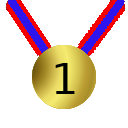
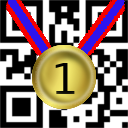
Improve on small screens. Adapting QR-Code-Size. Medal is not a Layer anymore, now a standard Image

diff --git a/src/App.js b/src/App.js
@@ -49,16 +49,18 @@ function subTopic() {
         }
     });
 
-    //check if Team is best Team
-    var medalPic = document.getElementById("MedalPic");
-    if (medalPic != null) {
+    //check if Team is best Team and give Medal to QRCode
+    if (document.getElementById("QR2") != null) {
         if (THECOMPONENT.state.InputFieldvalue === THECOMPONENT.state.bestTeam) {
             console.log('Logged in Team is best');
-            medalPic.style.display = "flex";
+            document.getElementById("QR2").style.display = "none";
+            document.getElementById("Medal").style.display = "flex"
         } else {
-            medalPic.style.display = "none";
+            document.getElementById("QR2").style.display = "flex";
+            document.getElementById("Medal").style.display = "none";
         }
     }
+
 
 
     new Promise(function () {
@@ -67,6 +69,12 @@ function subTopic() {
 
 
 }
+
+//Resize QRCodes when Window ist resized
+window.onresize = function(event) {
+    THECOMPONENT.state.sizeQR1=Math.max(document.documentElement.clientHeight, window.innerHeight || 0)*0.3;
+    THECOMPONENT.state.sizeQR2=Math.max(document.documentElement.clientHeight, window.innerHeight || 0)*0.14;
+};
 
 
 class App extends Component {
@@ -82,7 +90,9 @@ class App extends Component {
             speed: 0,
             bestcode: '',
             bestTeam: '',
-            bestSpeed: 0
+            bestSpeed: 0,
+            sizeQR1: Math.max(document.documentElement.clientHeight, window.innerHeight || 0)*0.3,
+            sizeQR2: Math.max(document.documentElement.clientHeight, window.innerHeight || 0)*0.14,
         };
         subTopic();
 
@@ -123,7 +133,7 @@ class App extends Component {
                     <div className="flip-container">
                         <div className="flipper">
                             <div className="front">
-                                <QRCode value={this.state.value} size={1.5 * 256}/>
+                                <QRCode value={this.state.value} size={parseInt(this.state.sizeQR1,10)} />
                             </div>
                             <div className="back">
                                 <p>Im QR-Code enthaltene Nachricht:</p>
@@ -135,10 +145,13 @@ class App extends Component {
 
                     <p>Aktuell bester empfangener QRCode kommt von Team:&nbsp;<b> {this.state.bestTeam} </b> mit der
                         Geschwindigkeit von: {this.state.bestSpeed * 100}%</p>
-                    <div className="App-flex itemQR" title="QR-Code des Highscores, erziele eine höhere Geschwindigkeit und verdiene eine Medaille!">
-                        <QRCode value={this.state.bestcode} size={0.5 * 256}/>
-                        <img id="MedalPic" src={medal} alt="Medallie" style={{display: "none"}}/>
+                    <div className="App-flex itemQR" id ="QR2" title="QR-Code des Highscores, erziele eine höhere Geschwindigkeit und verdiene eine Medaille!">
+                        <QRCode value={this.state.bestcode} size={parseInt(this.state.sizeQR2,10)}/>
                     </div>
+                    <div className="App-flex itemQR" id="Medal" title="Glückwunsch!" style={{"display":"none"}}>
+                        <img id="MedalPic" src={medal} alt="Medaille"/>
+                    </div>
+
                 </div>
             </div>
 

diff --git a/src/App.css b/src/App.css
@@ -5,23 +5,26 @@
     width: 100vw;
 }
 .App-logo {
-    height: 80px;
+    height: 10vh;
 }
 
 .App-header {
     background-color: #222;
-    height: 140px;
-    padding: 20px;
+    height: 14vh;
+    padding: 4vh;
     color: white;
 }
 
 .App-title {
-    font-size: 1.5em;
+    font-size: 2.5vh;
 }
 
 .App-intro {
+    margin: 2vh 0 0 0;
     font-size: large;
 }
+
+
 
 .App-flex{
     background-color: rgba(255,255,255,0.7);
@@ -30,13 +33,18 @@
     margin: auto;
     display: flex;
     flex-direction: column;
-    justify-content: center;
-}
-.App-flex.itemQR{
-    height: 128px;
-    z-index: 2;
     align-items: center;
 }
+.App-flex.itemQR{
+    height: 14vh;
+    z-index: 2;
+}
+.App-flex.itemQR>canvas {
+    position: relative !important;
+}
+
+
+
 /*class for animated TeamInput*/
 .App-input {
     font-family: sans-serif;
@@ -95,8 +103,8 @@
 }
 
 .flip-container, .front, .back {
-    width: 384px;
-    height: 384px;
+    width: 30vh;
+    height: 30vh;
 }
 
 /* flip speed goes here */
@@ -125,6 +133,6 @@
 
 /* back, initially hidden pane */
 .back {
-    margin: 100px 0 0 0;
+    margin: 10vh 0 0 0;
     transform: rotateY(180deg);
 }
